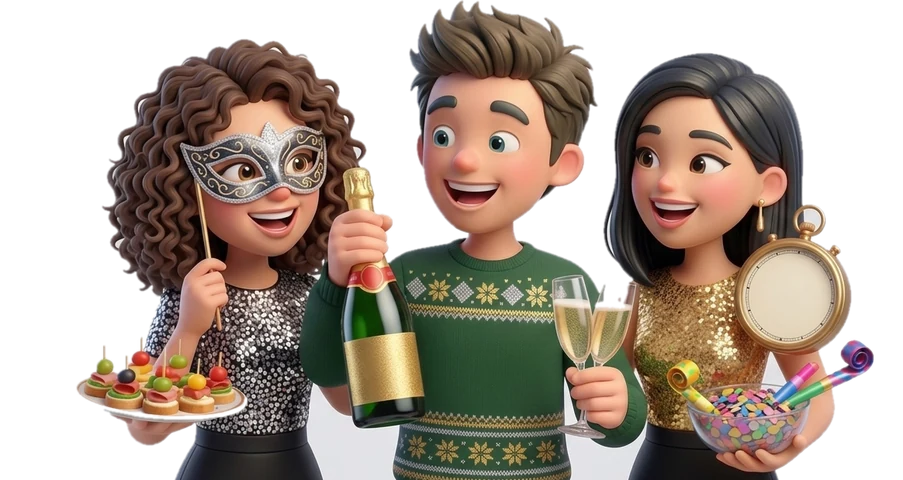
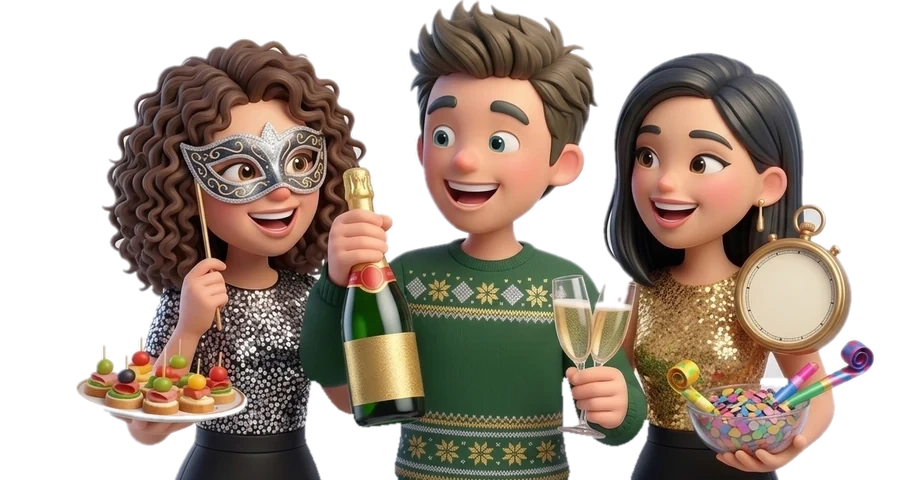
Hero: xmas grandpa hair restored; house (party) larger; nye leftover bg removed
Claude-Session: https://claude.ai/code/session_017XbPUHn37fqDv6KEidLMw8

Changed region(s): [[0.3101, 0.7812, 0.4651, 1.0], [0.6202, 0.7812, 0.7442, 1.0], [0.8372, 0.7812, 0.8682, 0.8125]]

diff --git a/public/index.html b/public/index.html
@@ -1704,7 +1704,7 @@ const SAFE=(()=>{try{if(/[?&]safe=0/.test(location.search))localStorage.setItem(
 const trusted=()=>{try{return JSON.parse(sget("trusted")||"[]").filter(id=>S.con.has(id)).slice(0,3)}catch{return[]}};
 const FRI='<svg viewBox="0 0 24 24" width="15" height="15" fill="currentColor"><circle cx="9" cy="8" r="3.6"/><path d="M2 20.500c0-4 3-6.500 7-6.500s7 2.500 7 6.500z"/><circle cx="17.500" cy="9" r="2.700" opacity=".7"/><path d="M17 14.300c3.200.3 5.200 2.300 5.200 5.700h-4c0-2.200-.4-4-1.200-5.700z" opacity=".7"/></svg>';
 const FR=id=>id&&typeof S!=="undefined"&&S.con&&S.con.has(id)&&id!==me()?`<i class="frd" title="${esc(t("frT"))}" aria-label="${esc(t("frT"))}">${FRI}</i>`:"";
-const HG={run:["#d7ecff,#eaf6ff","max-width:none!important;width:100%!important",5],scoot:["#ffe9b8,#ffd9c2","max-width:none!important;width:204px",46],walk:["#ffd9e0,#ffe9d0","max-width:none!important;width:100%!important",42],sport:["#ffd9b8,#ffecc2","max-width:none!important;width:100%!important",0],house:["#e1c9ff,#ffc9e6","max-width:none!important;width:100%!important",0],biz:["#cfe0ff,#e6eeff","max-width:none!important;width:100%!important",16],gaming:["#c8c3ff,#dfe8ff","margin-left:16px",89],coffee:["#f3d9b8,#f6e6cf","margin-left:16px",50],cinema:["#f5b8c6,#ffd9c9","",66],club:["#d8b8ff,#ffc2e4","",14],food:["#ffd2a8,#ffe9b8","margin-left:6px;bottom:-85px!important;max-height:340px!important;max-width:min(400px,112%)!important",63],basket:["#ffcfa6,#ffe1c8","",42],fball:["#b9e8c8,#e6f3c5","",38],pool:["#b9e3f5,#d6f1f0","",53],pub:["#f3d9a0,#fbe9bf","",62],vball:["#c9e3ff,#ffe3b8","margin-left:78px;max-height:218px",92],gym:["#cfd8e8,#e4e1f2","",92],nye:["#b9c4f5,#ffe6a8","",10],xmas:["#bfe3c7,#ffd0cf","",18],trip:["#bfe3f0,#cdeedd","max-width:310px;max-height:205px;margin-left:12px;margin-bottom:-6px",41],gallery:["#ffd0c9,#d7e9d0","",42]};
+const HG={run:["#d7ecff,#eaf6ff","max-width:none!important;width:100%!important",5],scoot:["#ffe9b8,#ffd9c2","max-width:none!important;width:204px",46],walk:["#ffd9e0,#ffe9d0","max-width:none!important;width:100%!important",42],sport:["#ffd9b8,#ffecc2","max-width:none!important;width:100%!important",0],house:["#e1c9ff,#ffc9e6","max-width:none!important;width:408px",0],biz:["#cfe0ff,#e6eeff","max-width:none!important;width:100%!important",16],gaming:["#c8c3ff,#dfe8ff","margin-left:16px",89],coffee:["#f3d9b8,#f6e6cf","margin-left:16px",50],cinema:["#f5b8c6,#ffd9c9","",66],club:["#d8b8ff,#ffc2e4","",14],food:["#ffd2a8,#ffe9b8","margin-left:6px;bottom:-85px!important;max-height:340px!important;max-width:min(400px,112%)!important",63],basket:["#ffcfa6,#ffe1c8","",42],fball:["#b9e8c8,#e6f3c5","",38],pool:["#b9e3f5,#d6f1f0","",53],pub:["#f3d9a0,#fbe9bf","",62],vball:["#c9e3ff,#ffe3b8","margin-left:78px;max-height:218px",92],gym:["#cfd8e8,#e4e1f2","",92],nye:["#b9c4f5,#ffe6a8","",10],xmas:["#bfe3c7,#ffd0cf","",18],trip:["#bfe3f0,#cdeedd","max-width:310px;max-height:205px;margin-left:12px;margin-bottom:-6px",41],gallery:["#ffd0c9,#d7e9d0","",42]};
 const card=(d,P,link,role,hero)=>{const by=s=>P.filter(p=>p.status===s),nm=p=>esc(p.nickname)+FR(p.id)+(p.id===d.hostId?' <span class="stt">★</span>':"")+(p.status==="late"&&p.etaMin?` (${p.etaMin}m)`:"");
   const ln=(s,c)=>by(s).length?`<div class="ln">${avc("mini",avIdx(by(s)[0]))}<span><b class="pl ${c}">${sv(RI[s])}${by(s).length} ${STL(s)}</b> ${by(s).map(nm).join(", ")}</span></div>`:"";
   const [c1,c2]=thm(d),tg=role==="host"?t("roleHost")+(d.public?" 🌍":""):role==="inv"?(d.public?"🌍 "+t("pubTag"):t("roleInv")):role?t("roleMe",STL(role)):"";
